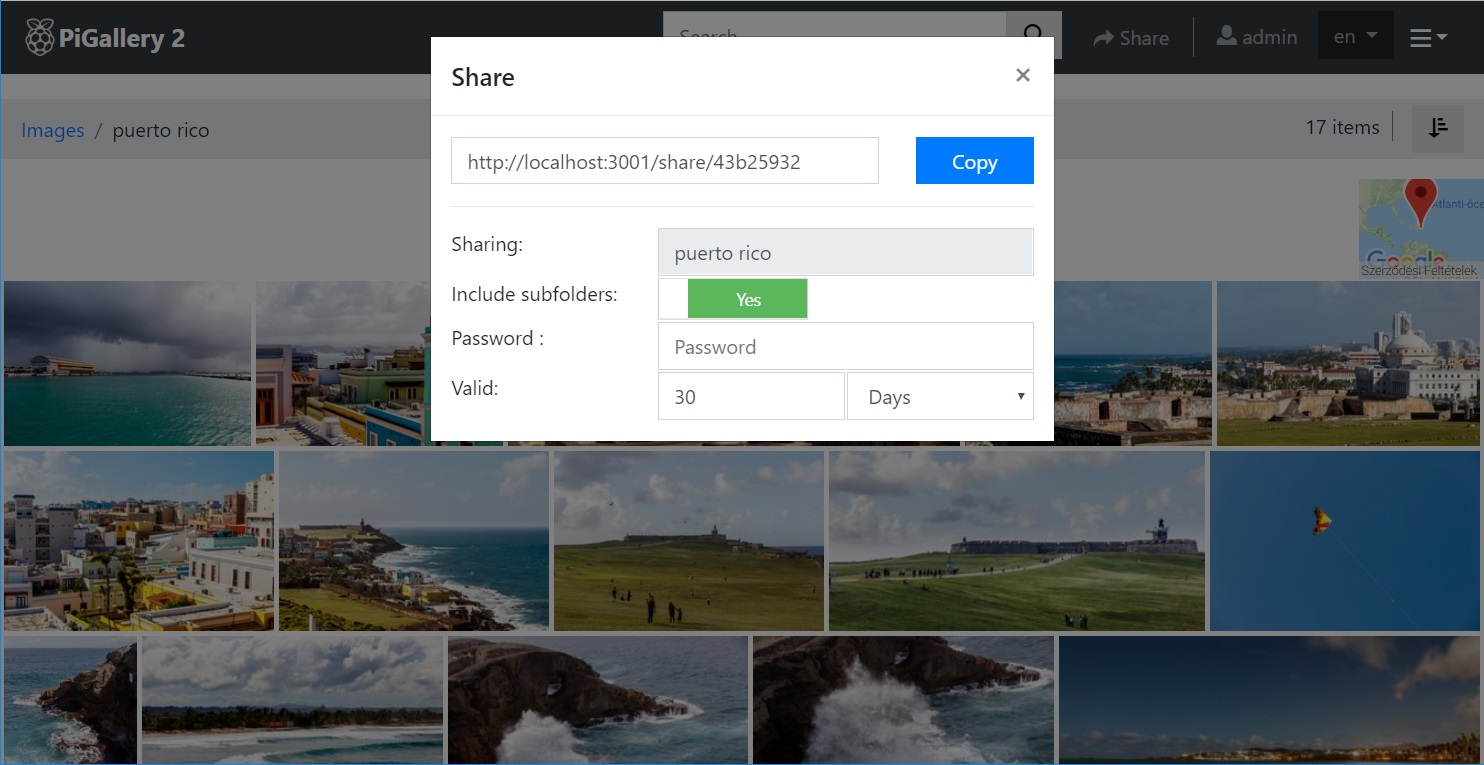
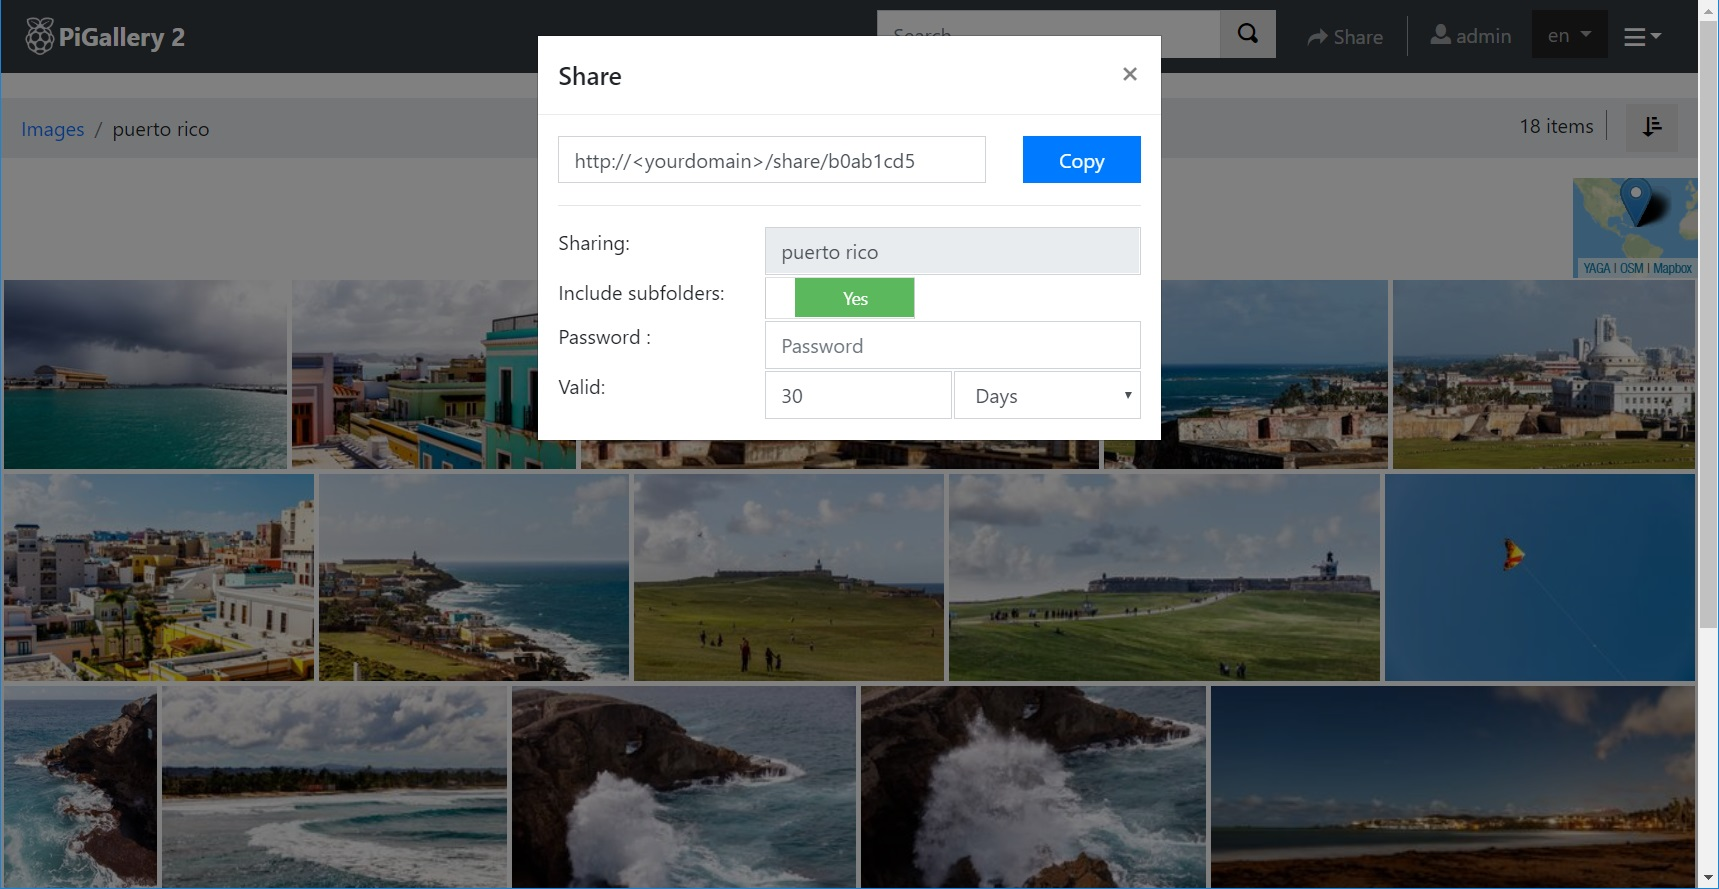
fixing map bug, adding mapbox support

diff --git a/frontend/app/gallery/map/map.service.ts b/frontend/app/gallery/map/map.service.ts
@@ -2,7 +2,6 @@ import {Injectable} from '@angular/core';
 import {NetworkService} from '../../model/network/network.service';
 import {FileDTO} from '../../../../common/entities/FileDTO';
 import {Utils} from '../../../../common/Utils';
-import {OSM_TILE_LAYER_URL} from '@yaga/leaflet-ng2';
 import {Config} from '../../../../common/config/public/Config';
 import {ClientConfig} from '../../../../common/config/public/ConfigClass';
 
@@ -29,15 +28,48 @@ export class MapService {
   }
 
 
+  public get ShortAttributions(): string[] {
+    const yaga = '<a href="https://yagajs.org" title="YAGA">YAGA</a>';
+    const lf = '<a href="https://leaflet-ng2.yagajs.org" title="Leaflet in Angular2">leaflet-ng2</a>';
+    const OSM = '<a href="https://www.openstreetmap.org/copyright">OSM</a>';
+    const MB = '<a href="https://www.mapbox.com/">Mapbox</a>';
+
+
+    if (Config.Client.Map.mapProvider === ClientConfig.MapProviders.OpenStreetMap) {
+      return [yaga + ' | &copy; ' + OSM];
+    }
+
+    if (Config.Client.Map.mapProvider === ClientConfig.MapProviders.Mapbox) {
+      return [yaga + ' | ' + OSM + ' | ' + MB];
+    }
+    return [yaga + ' | ' + lf];
+  }
+
   public get Attributions(): string[] {
-    return ['&copy; <a href="https://www.openstreetmap.org/copyright">OpenStreetMap</a>'];
+    const yagalf = '<a href="https://yagajs.org" title="YAGA">YAGA</a> | ' +
+      '<a href="https://leaflet-ng2.yagajs.org" title="Leaflet in Angular2">leaflet-ng2</a>';
+    const OSM = '&copy; <a href="https://www.openstreetmap.org/copyright">OpenStreetMap</a>';
+    const MB = '&copy; <a href="https://www.mapbox.com/">Mapbox</a>';
+
+    if (Config.Client.Map.mapProvider === ClientConfig.MapProviders.OpenStreetMap) {
+      return [yagalf + ' | ' + OSM];
+    }
+
+    if (Config.Client.Map.mapProvider === ClientConfig.MapProviders.Mapbox) {
+      return [yagalf + ' | ' + OSM + ' | ' + MB];
+    }
+    return [yagalf];
   }
 
   public get MapLayer(): string {
     if (Config.Client.Map.mapProvider === ClientConfig.MapProviders.Custom) {
       return Config.Client.Map.tileUrl;
     }
-    return OSM_TILE_LAYER_URL;
+    if (Config.Client.Map.mapProvider === ClientConfig.MapProviders.Mapbox) {
+      return 'https://api.tiles.mapbox.com/v4/mapbox.streets/{z}/{x}/{y}.png?access_token='
+        + Config.Client.Map.mapboxAccessToken;
+    }
+    return 'https://{s}.tile.openstreetmap.org/{z}/{x}/{y}.png';
   }
 
 }

diff --git a/docs/index.html b/docs/index.html
@@ -16,7 +16,7 @@
 
 <body class="text-center">
 <a href="https://github.com/bpatrik/pigallery2"><img style="position: absolute; top: 0; left: 0; border: 0;"
-                                                     src="https://s3.amazonaws.com/github/ribbons/forkme_left_white_ffffff.png"
+                                                     src="https://s3.amazonaws.com/github/ribbons/forkme_left_red_aa0000.png"
                                                      alt="Fork me on GitHub"></a>
 <div class="cover-container d-flex w-100 h-100 p-3 mx-auto flex-column ">
   <header class="masthead">
@@ -66,8 +66,10 @@
       </div>
       <div class="col">
         <h3>Map</h3>
-        PiGallery2 reads the location data of the photos and puts them on google maps.
+        PiGallery2 reads the location data of the photos and puts them on a nice map.
         The gallery also supports *.gps file to show your tracked path on the map too.
+        It by default supports <a href="https://www.openstreetmap.org">OpenStreetMap</a> and <a
+        href="https://www.mapbox.com">Mapbox</a>, but you can also add you own favourite map provider.
       </div>
     </div>
 

diff --git a/frontend/app/app.module.ts b/frontend/app/app.module.ts
@@ -74,6 +74,7 @@ import {FixOrientationPipe} from './gallery/FixOrientationPipe';
 import {VideoSettingsComponent} from './settings/video/video.settings.component';
 import {DurationPipe} from './pipes/DurationPipe';
 import {MapService} from './gallery/map/map.service';
+import {Icon} from 'leaflet';
 import {MetaFileSettingsComponent} from './settings/metafiles/metafile.settings.component';
 
 
@@ -83,7 +84,16 @@ export class MyHammerConfig extends HammerGestureConfig {
     'swipe': {direction: 31} // enable swipe up
   };
 }
-
+/*
+console.log(Icon);
+console.log(Icon.Default);
+console.log(Icon.Default.prototype);
+console.log(Icon.Default.prototype.options);
+Icon.Default.prototype.options.iconRetinaUrl = 'assets/leaflet/marker-icon-2x.png';
+Icon.Default.imagePath = 'assets/leaflet/marker-icon.png';
+Icon.Default.prototype.options.iconUrl = 'assets/leaflet/marker-icon.png';
+Icon.Default.prototype.options.shadowUrl = 'assets/leaflet/marker-shadow.png';
+*/
 export class CustomUrlSerializer implements UrlSerializer {
   private _defaultUrlSerializer: DefaultUrlSerializer = new DefaultUrlSerializer();
 

diff --git a/frontend/app/settings/map/map.settings.component.html b/frontend/app/settings/map/map.settings.component.html
@@ -45,6 +45,19 @@
         </div>
       </div>
 
+      <div class="form-group row" *ngIf="settings.mapProvider === MapProviders.Mapbox">
+        <label class="col-md-2 control-label" for="mapboxAccessToken" i18n>Mapbox access token</label>
+        <div class="col-md-10">
+          <input type="text" class="form-control" placeholder="Mapbox access token"
+                 [(ngModel)]="settings.mapboxAccessToken"
+                 name="mapboxAccessToken" id="mapboxAccessToken" required>
+          <small class="form-text text-muted">
+            <ng-container i18n>MapBox needs an access token to work, create one at </ng-container><a href="https://www.mapbox.com">https://www.mapbox.com</a>.
+          </small>
+        </div>
+      </div>
+
+
       <button class="btn btn-success float-right"
               [disabled]="!settingsForm.form.valid || !changed || inProgress"
               (click)="save()" i18n>Save

diff --git a/frontend/app/gallery/map/map.gallery.component.ts b/frontend/app/gallery/map/map.gallery.component.ts
@@ -38,8 +38,8 @@ export class GalleryMapComponent implements OnChanges, IRenderable, AfterViewIni
     });
 
     if (this.yagaMap) {
-      this.yagaMap.setView(this.mapPhotos[0], 0);
-      this.yagaMap.fitBounds(<any>this.mapPhotos);
+      this.yagaMap.setView(this.mapPhotos[0], 99);
+      this.yagaMap.fitBounds(this.mapPhotos.map(mp => <[number, number]>[mp.lat, mp.lng]));
       this.yagaMap.zoom = 0;
     }
 
@@ -48,8 +48,8 @@ export class GalleryMapComponent implements OnChanges, IRenderable, AfterViewIni
   ngAfterViewInit() {
     setTimeout(() => {
       this.height = this.mapElement.nativeElement.clientHeight;
-      this.yagaMap.setView(this.mapPhotos[0], 0);
-      this.yagaMap.fitBounds(<any>this.mapPhotos);
+      this.yagaMap.setView(this.mapPhotos[0], 99);
+      this.yagaMap.fitBounds(this.mapPhotos.map(mp => <[number, number]>[mp.lat, mp.lng]));
       this.yagaMap.zoom = 0;
     }, 0);
   }

diff --git a/backend/model/diagnostics/ConfigDiagnostics.ts b/backend/model/diagnostics/ConfigDiagnostics.ts
@@ -154,8 +154,15 @@ export class ConfigDiagnostics {
   }
 
 
-  static async testMapConfig(map: ClientConfig.MapConfig) {
-    if (map.enabled === true && map.mapProvider === ClientConfig.MapProviders.Custom &&
+  static async testMapConfig(map: ClientConfig.MapConfig): Promise<void> {
+    if (map.enabled === false) {
+      return;
+    }
+    if (map.mapProvider === ClientConfig.MapProviders.Mapbox &&
+      (!map.mapboxAccessToken || map.mapboxAccessToken.length === 0)) {
+      throw new Error('Mapbox needs a valid api key.');
+    }
+    if (map.mapProvider === ClientConfig.MapProviders.Custom &&
       (!map.tileUrl || map.tileUrl.length === 0)) {
       throw new Error('Custom maps need a valid tile url');
     }

diff --git a/frontend/app/gallery/map/map.gallery.component.html b/frontend/app/gallery/map/map.gallery.component.html
@@ -12,10 +12,17 @@
         *ngFor="let photo of mapPhotos"
         [lat]="photo.lat"
         [lng]="photo.lng">
+     <!--   <yaga-icon
+          [iconSize]="[25,41]"
+          [iconAnchor]="[13,41]"
+          iconUrl="assets/leaflet/marker-icon.png"
+          shadowUrl="assets/leaflet/marker-shadow.png"
+        ></yaga-icon>-->
       </yaga-marker>
       <yaga-attribution-control
-        [attributions]="mapService.Attributions"
-      ></yaga-attribution-control>
+        prefix=""
+        [attributions]="mapService.ShortAttributions">
+      </yaga-attribution-control>
       <yaga-tile-layer [url]="mapService.MapLayer"></yaga-tile-layer>
     </yaga-map>
     <div class="overlay" (click)="click()"

diff --git a/common/config/public/ConfigClass.ts b/common/config/public/ConfigClass.ts
@@ -4,7 +4,7 @@ import {UserRoles} from '../../entities/UserDTO';
 export module ClientConfig {
 
   export enum MapProviders {
-    OpenStreetMap, Custom
+    OpenStreetMap, Mapbox, Custom
   }
 
   export interface SearchConfig {
@@ -29,6 +29,7 @@ export module ClientConfig {
   export interface MapConfig {
     enabled: boolean;
     mapProvider: MapProviders;
+    mapboxAccessToken: string;
     tileUrl: string;
   }
 
@@ -107,6 +108,7 @@ export class PublicConfigClass {
     Map: {
       enabled: true,
       mapProvider: ClientConfig.MapProviders.OpenStreetMap,
+      mapboxAccessToken: '',
       tileUrl: ''
     },
     RandomPhoto: {

diff --git a/frontend/index.html b/frontend/index.html
@@ -9,6 +9,9 @@
 
   <link rel="stylesheet"
         href="https://cdnjs.cloudflare.com/ajax/libs/bootstrap-switch/3.3.4/css/bootstrap3/bootstrap-switch.css">
+  <link rel="stylesheet" href="https://unpkg.com/leaflet@1.3.4/dist/leaflet.css"
+        integrity="sha512-puBpdR0798OZvTTbP4A8Ix/l+A4dHDD0DGqYW6RQ+9jxkRFclaxxQb/SJAWZfWAkuyeQUytO7+7N4QKrDh+drA=="
+        crossorigin=""/>
 
   <script>
     var ServerInject = {user:  <%- JSON.stringify(user); %>, ConfigInject: <%- JSON.stringify(clientConfig); %>}

diff --git a/frontend/app/gallery/map/lightbox/lightbox.map.gallery.component.html b/frontend/app/gallery/map/lightbox/lightbox.map.gallery.component.html
@@ -46,8 +46,9 @@
         </yaga-popup>
       </yaga-marker>
       <yaga-attribution-control
-        [attributions]="mapService.Attributions"
-      ></yaga-attribution-control>
+        prefix=""
+        [attributions]="mapService.Attributions">
+      </yaga-attribution-control>
       <yaga-tile-layer [url]="mapService.MapLayer"></yaga-tile-layer>
     </yaga-map>
   </div>

diff --git a/frontend/app/gallery/lightbox/infopanel/info-panel.lightbox.gallery.component.html b/frontend/app/gallery/lightbox/infopanel/info-panel.lightbox.gallery.component.html
@@ -105,6 +105,10 @@
         [lat]="PositionData.GPSData.latitude"
         [lng]="PositionData.GPSData.longitude">
       </yaga-marker>
+      <yaga-attribution-control
+        prefix=""
+        [attributions]="mapService.Attributions">
+      </yaga-attribution-control>
       <yaga-tile-layer [url]="mapService.MapLayer"></yaga-tile-layer>
     </yaga-map>
   </div>

diff --git a/backend/routes/PublicRouter.ts b/backend/routes/PublicRouter.ts
@@ -90,7 +90,7 @@ export class PublicRouter {
       );
     });
 
-    app.get('/assets/:file',
+    app.get('/assets/:file(*)',
       setLocale,
       (req: Request, res: Response) => {
         const file = path.resolve(ProjectPath.FrontendFolder, req['localePath'], 'assets', req.params.file);
